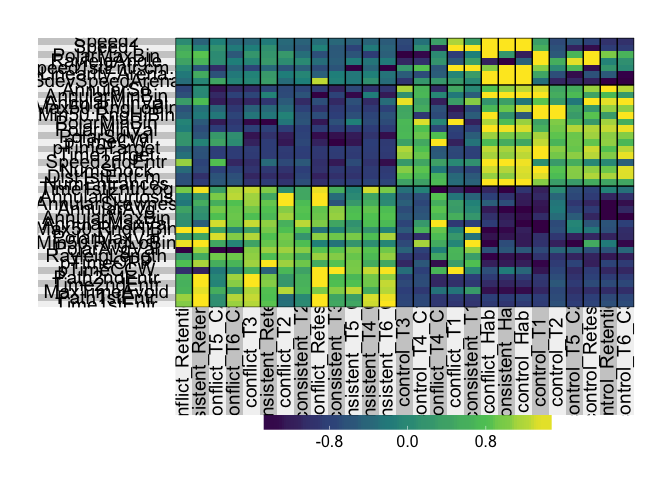
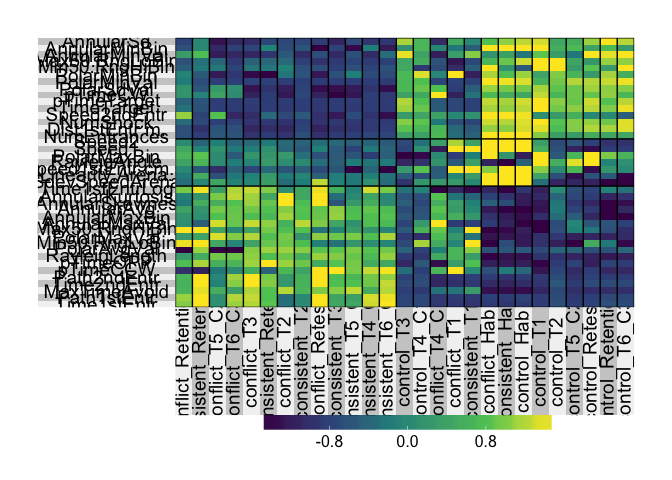
markdown with figure 1

Changed region(s): [[0.0312, 0.0625, 0.9688, 0.4062]]

diff --git a/RmdFiles/01b_behavior_figures.md b/RmdFiles/01b_behavior_figures.md
@@ -1,3 +1,7 @@
+These analyses combined can be summarized in this figure:
+
+<img src=".../figures/01_behavior/01_avoidancebehvaior-01.png" width="1370" />
+
 ``` r
 library(ggplot2) ## for awesome plots!
 ```
@@ -41,9 +45,8 @@ columnannotations <- read.csv("../data/01a_columnannotations.csv", header = T, r
 scoresdf <- read.csv("../data/01a_scoresdf.csv", header = T)
 rotationdf <- read.csv("../data/01a_rotationdf.csv", header = T, row.names = 1)
 behaviormatrix <- read.csv("../data/01a_behaviormatrix.csv", header = T, row.names = 1)
-```
 
-``` r
+#set factor levels
 levels(behavior$APA)
 ```
 
@@ -180,7 +183,7 @@ pheatmap(scaledaveragedata, show_colnames=F, show_rownames = T,
          #width=4.5, height=3,
          border_color = "grey60" ,
          color = viridis(30),
-         cellwidth = 8, 
+         cellwidth = 6, 
          clustering_method="average",
          breaks=myBreaks,
          clustering_distance_cols="correlation" 
@@ -193,12 +196,11 @@ pheatmap(scaledaveragedata, show_colnames=F, show_rownames = T,
 # pheatmapfor adobe
 pheatmap(scaledaveragedata, show_colnames=F, show_rownames = T,
          annotation_col=df, annotation_colors = ann_colors,
-         treeheight_row = 0, treeheight_col = 0,
-         fontsize = 11, 
-         #width=4.5, height=3,
+         treeheight_row = 0, treeheight_col = 50,
+         fontsize = 10, 
          border_color = "grey60" ,
          color = viridis(30),
-         cellwidth = 6, 
+         cellwidth = 8, 
          clustering_method="average",
          breaks=myBreaks,
          clustering_distance_cols="correlation",
@@ -501,52 +503,3 @@ dev.off()
 
     ## quartz_off_screen 
     ##                 2
-
-``` r
-library(ggfortify)
-```
-
-    ## Warning: package 'ggfortify' was built under R version 3.3.2
-
-``` r
-df <- behaviormatrix
-autoplot(prcomp(df))
-```
-
-![](../figures/01_behavior/otherpca-1.png)
-
-``` r
-autoplot(prcomp(df), data = behavior, colour = 'APA', loadings = TRUE, loadings.label = TRUE, loadings.label.size = 5, scale = 0)
-```
-
-![](../figures/01_behavior/otherpca-2.png)
-
-``` r
-library(cluster)
-autoplot(clara(behaviormatrix, 3), frame = TRUE)
-```
-
-![](../figures/01_behavior/otherpca-3.png)
-
-``` r
-autoplot(fanny(behaviormatrix, 2), frame = TRUE)
-```
-
-    ## Warning in fanny(behaviormatrix, 2): the memberships are all very close to
-    ## 1/k. Maybe decrease 'memb.exp' ?
-
-![](../figures/01_behavior/otherpca-4.png)
-
-``` r
-# capture the rotation matrix in a data frame
-rotation_data <- rotationdf
-# define a pleasing arrow style
-arrow_style <- arrow(length = unit(0.05, "inches"),
-                     type = "closed")
-# now plot, using geom_segment() for arrows and geom_text for labels
-ggplot(rotation_data) + 
-  geom_segment(aes(xend=PC1, yend=PC2), x=0, y=0, arrow=arrow_style) + 
-  geom_text(aes(x=PC1, y=PC2, label=variable), hjust=0, size=3, color='red')
-```
-
-![](../figures/01_behavior/wilkepca-1.png)
